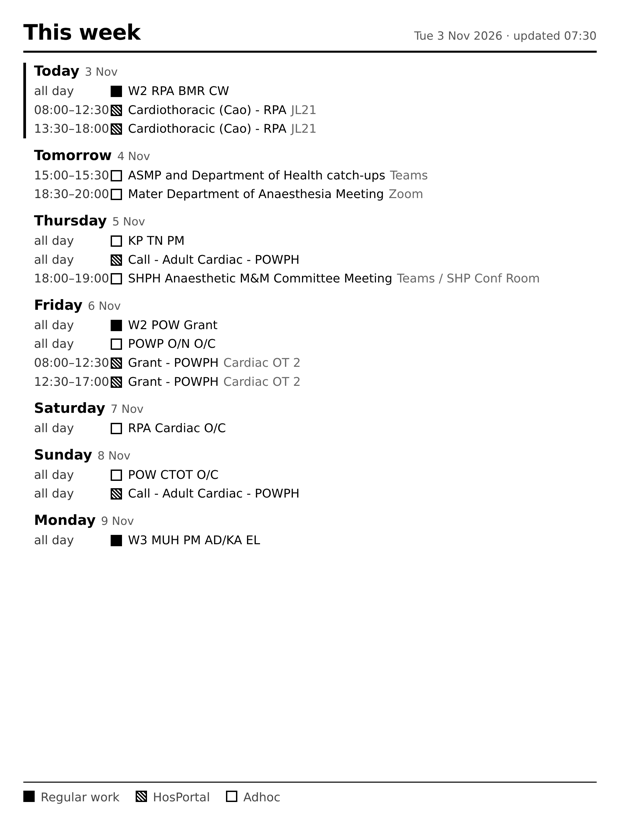
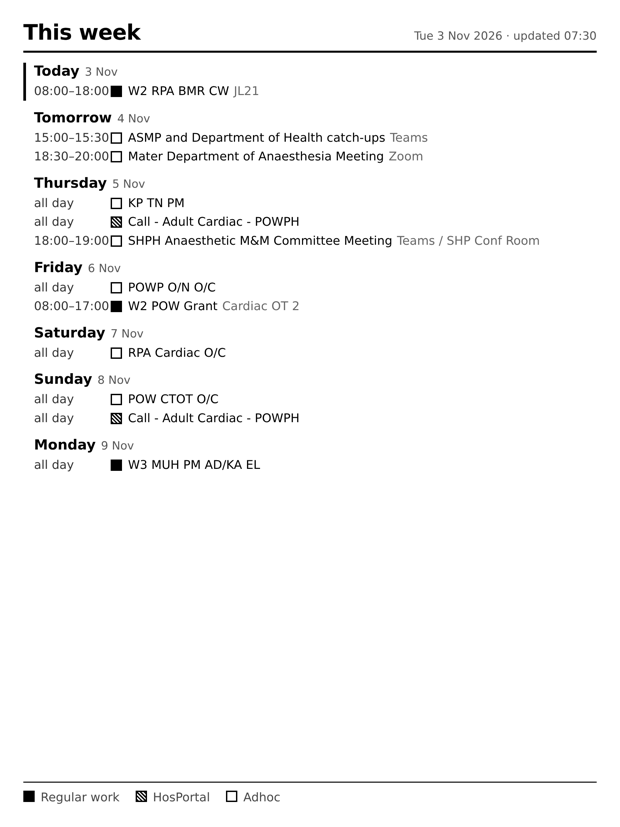
Mockups: HosPortal merge rule, TFC admin page
Claude-Session: https://claude.ai/code/session_011br8fb3fSefWnZdc52BCSJ

Changed region(s): [[0.0306, 0.0907, 0.8581, 0.6651]]

diff --git a/mock/month.html b/mock/month.html
@@ -36,4 +36,19 @@ td.today{border:8px solid #000}
 td.other .n{color:#aaa}
 td .e{white-space:nowrap;overflow:hidden;text-overflow:ellipsis;display:flex;align-items:center}
 td .m{width:20px;height:20px;border:3px solid #000;margin:0 10px 0 0;flex:none}
-</style></head><body><div class="hdr"><h1>November 2026</h1><span class="sub">updated 07:30</span></div><table><tr><th>Mon</th><th>Tue</th><th>Wed</th><th>Thu</th><th>Fri</th><th>Sat</th><th>Sun</th></tr><tr style="height:346px"><td class=" other"><div class="n">26</div></td><td class=" other"><div class="n">27</div></td><td class=" other"><div class="n">28</div></td><td class=" other"><div class="n">29</div></td><td class=" other"><div class="n">30</div><div class="e adhoc"><span class="m"></span>?SIG TOE workshop conference</div></td><td class=" other"><div class="n">31</div><div class="e adhoc"><span class="m"></span>?SIG TOE workshop conference</div><div class="e adhoc"><span class="m"></span>12:15 Flight to Sydney (JQ 409)</div></td><td class=""><div class="n">1</div><div class="e adhoc"><span class="m"></span>Decide on housed</div><div class="e hos"><span class="m"></span>Call - Perfusion - RPA</div></td></tr><tr style="height:346px"><td class=""><div class="n">2</div><div class="e work"><span class="m"></span>W2 PM RPA TAVI</div><div class="e hos"><span class="m"></span>13:30 TAVI - RPA</div></td><td class="today"><div class="n">3</div><div class="e work"><span class="m"></span>W2 RPA BMR CW</div><div class="e hos"><span class="m"></span>08:00 Cardiothoracic (Cao) - RPA</div><div class="e hos"><span class="m"></span>13:30 Cardiothoracic (Cao) - RPA</div></td><td class=""><div class="n">4</div><div class="e adhoc"><span class="m"></span>15:00 ASMP and Department of Health catch-ups</div><div class="e adhoc"><span class="m"></span>18:30 Mater Department of Anaesthesia Meeting</div></td><td class=""><div class="n">5</div><div class="e adhoc"><span class="m"></span>KP TN PM</div><div class="e hos"><span class="m"></span>Call - Adult Cardiac - POWPH</div><div class="e adhoc"><span class="m"></span>18:00 SHPH Anaesthetic M&amp;M Committee Meeting</div></td><td class=""><div class="n">6</div><div class="e work"><span class="m"></span>W2 POW Grant</div><div class="e adhoc"><span class="m"></span>POWP O/N O/C</div><div class="e hos"><span class="m"></span>08:00 Grant - POWPH</div><div class="e hos"><span class="m"></span>12:30 Grant - POWPH</div></td><td class=""><div class="n">7</div><div class="e adhoc"><span class="m"></span>RPA Cardiac O/C</div></td><td class=""><div class="n">8</div><div class="e adhoc"><span class="m"></span>POW CTOT O/C</div><div class="e hos"><span class="m"></span>Call - Adult Cardiac - POWPH</div></td></tr><tr style="height:346px"><td class=""><div class="n">9</div><div class="e work"><span class="m"></span>W3 MUH PM AD/KA EL</div></td><td class=""><div class="n">10</div><div class="e work"><span class="m"></span>W3 StGP GS</div></td><td class=""><div class="n">11</div><div class="e adhoc"><span class="m"></span>KP TN PM</div></td><td class=""><div class="n">12</div></td><td class=""><div class="n">13</div><div class="e work"><span class="m"></span>W3 Norwest AM ZH</div><div class="e work"><span class="m"></span>W3 MUH PM ZH</div></td><td class=""><div class="n">14</div><div class="e adhoc"><span class="m"></span>Kiats/Sumo</div></td><td class=""><div class="n">15</div></td></tr><tr style="height:346px"><td class=""><div class="n">16</div></td><td class=""><div class="n">17</div><div class="e work"><span class="m"></span>W4 RPA CQC JI</div></td><td class=""><div class="n">18</div><div class="e work"><span class="m"></span>W4 SSWP GS</div></td><td class=""><div class="n">19</div><div class="e work"><span class="m"></span>W4 NW ZH PM</div></td><td class=""><div class="n">20</div><div class="e work"><span class="m"></span>W4 StGP GS PM</div></td><td class=""><div class="n">21</div></td><td class=""><div class="n">22</div></td></tr><tr style="height:346px"><td class=""><div class="n">23</div><div class="e work"><span class="m"></span>W1 MUH PM AD/KA</div></td><td class=""><div class="n">24</div><div class="e adhoc"><span class="m"></span>POW Grant</div><div class="e hos"><span class="m"></span>08:00 Grant - POWPH</div><div class="e hos"><span class="m"></span>12:30 Grant - POWPH</div></td><td class=""><div class="n">25</div></td><td class=""><div class="n">26</div><div class="e adhoc"><span class="m"></span>POWP Keogh AM</div><div class="e adhoc"><span class="m"></span>13:00 Keogh Private Theatres</div></td><td class=""><div class="n">27</div><div class="e work"><span class="m"></span>W1 TAVI NG/EL</div></td><td class=""><div class="n">28</div></td><td class=""><div class="n">29</div></td></tr><tr style="height:346px"><td class=""><div class="n">30</div></td><td class=" other"><div class="n">1</div></td><td class=" other"><div class="n">2</div></td><td class=" other"><div class="n">3</div></td><td class=" other"><div class="n">4</div></td><td class=" other"><div class="n">5</div></td><td class=" other"><div class="n">6</div></td></tr></table><div class="legend"><span class="ev work"><span class="m"></span>Regular work</span><span class="ev hos"><span class="m"></span>HosPortal</span><span class="ev adhoc"><span class="m"></span>Adhoc</span></div></body></html>
+
+.tiles{display:grid;grid-template-columns:1fr 1fr 1fr;gap:28px;margin-top:10px}
+.tile{border:5px solid #000;padding:26px 30px;min-height:300px}
+.tile .v{font-size:120px;font-weight:700;line-height:1;letter-spacing:-3px}
+.tile .l{font-size:34px;color:#333;margin-top:14px}
+.tile .s{font-size:28px;color:#666;margin-top:6px}
+.tile.warn{background:repeating-linear-gradient(45deg,#fff 0 10px,#eee 10px 20px)}
+.hero{border:6px solid #000;background:#000;color:#fff;padding:40px 48px;display:flex;justify-content:space-between;align-items:center;margin-bottom:28px}
+.hero .v{font-size:170px;font-weight:700;line-height:1;letter-spacing:-4px}
+.hero .l{font-size:40px;text-align:right;line-height:1.3}
+.chart{border:5px solid #000;padding:26px 30px;margin-top:28px}
+.chart .l{font-size:34px;color:#333;margin-bottom:12px}
+.bars{display:flex;align-items:flex-end;gap:14px;height:260px}
+.bars div{flex:1;background:#000}
+.bars .x{font-size:26px;color:#666;display:flex;justify-content:space-between;margin-top:8px}
+</style></head><body><div class="hdr"><h1>November 2026</h1><span class="sub">updated 07:30</span></div><table><tr><th>Mon</th><th>Tue</th><th>Wed</th><th>Thu</th><th>Fri</th><th>Sat</th><th>Sun</th></tr><tr style="height:346px"><td class=" other"><div class="n">26</div></td><td class=" other"><div class="n">27</div></td><td class=" other"><div class="n">28</div></td><td class=" other"><div class="n">29</div></td><td class=" other"><div class="n">30</div><div class="e adhoc"><span class="m"></span>?SIG TOE workshop conference</div></td><td class=" other"><div class="n">31</div><div class="e adhoc"><span class="m"></span>?SIG TOE workshop conference</div><div class="e adhoc"><span class="m"></span>12:15 Flight to Sydney (JQ 409)</div></td><td class=""><div class="n">1</div><div class="e adhoc"><span class="m"></span>Decide on housed</div><div class="e hos"><span class="m"></span>Call - Perfusion - RPA</div></td></tr><tr style="height:346px"><td class=""><div class="n">2</div><div class="e work"><span class="m"></span>13:30 W2 PM RPA TAVI</div></td><td class="today"><div class="n">3</div><div class="e work"><span class="m"></span>08:00 W2 RPA BMR CW</div></td><td class=""><div class="n">4</div><div class="e adhoc"><span class="m"></span>15:00 ASMP and Department of Health catch-ups</div><div class="e adhoc"><span class="m"></span>18:30 Mater Department of Anaesthesia Meeting</div></td><td class=""><div class="n">5</div><div class="e adhoc"><span class="m"></span>KP TN PM</div><div class="e hos"><span class="m"></span>Call - Adult Cardiac - POWPH</div><div class="e adhoc"><span class="m"></span>18:00 SHPH Anaesthetic M&amp;M Committee Meeting</div></td><td class=""><div class="n">6</div><div class="e adhoc"><span class="m"></span>POWP O/N O/C</div><div class="e work"><span class="m"></span>08:00 W2 POW Grant</div></td><td class=""><div class="n">7</div><div class="e adhoc"><span class="m"></span>RPA Cardiac O/C</div></td><td class=""><div class="n">8</div><div class="e adhoc"><span class="m"></span>POW CTOT O/C</div><div class="e hos"><span class="m"></span>Call - Adult Cardiac - POWPH</div></td></tr><tr style="height:346px"><td class=""><div class="n">9</div><div class="e work"><span class="m"></span>W3 MUH PM AD/KA EL</div></td><td class=""><div class="n">10</div><div class="e work"><span class="m"></span>W3 StGP GS</div></td><td class=""><div class="n">11</div><div class="e adhoc"><span class="m"></span>KP TN PM</div></td><td class=""><div class="n">12</div></td><td class=""><div class="n">13</div><div class="e work"><span class="m"></span>W3 Norwest AM ZH</div><div class="e work"><span class="m"></span>W3 MUH PM ZH</div></td><td class=""><div class="n">14</div><div class="e adhoc"><span class="m"></span>Kiats/Sumo</div></td><td class=""><div class="n">15</div></td></tr><tr style="height:346px"><td class=""><div class="n">16</div></td><td class=""><div class="n">17</div><div class="e work"><span class="m"></span>W4 RPA CQC JI</div></td><td class=""><div class="n">18</div><div class="e work"><span class="m"></span>W4 SSWP GS</div></td><td class=""><div class="n">19</div><div class="e work"><span class="m"></span>W4 NW ZH PM</div></td><td class=""><div class="n">20</div><div class="e work"><span class="m"></span>W4 StGP GS PM</div></td><td class=""><div class="n">21</div></td><td class=""><div class="n">22</div></td></tr><tr style="height:346px"><td class=""><div class="n">23</div><div class="e work"><span class="m"></span>W1 MUH PM AD/KA</div></td><td class=""><div class="n">24</div><div class="e adhoc"><span class="m"></span>POW Grant</div><div class="e hos"><span class="m"></span>08:00 ! Grant - POWPH</div><div class="e hos"><span class="m"></span>12:30 ! Grant - POWPH</div></td><td class=""><div class="n">25</div></td><td class=""><div class="n">26</div><div class="e adhoc"><span class="m"></span>POWP Keogh AM</div><div class="e adhoc"><span class="m"></span>13:00 Keogh Private Theatres</div></td><td class=""><div class="n">27</div><div class="e work"><span class="m"></span>W1 TAVI NG/EL</div></td><td class=""><div class="n">28</div></td><td class=""><div class="n">29</div></td></tr><tr style="height:346px"><td class=""><div class="n">30</div></td><td class=" other"><div class="n">1</div></td><td class=" other"><div class="n">2</div></td><td class=" other"><div class="n">3</div></td><td class=" other"><div class="n">4</div></td><td class=" other"><div class="n">5</div></td><td class=" other"><div class="n">6</div></td></tr></table><div class="legend"><span class="ev work"><span class="m"></span>Regular work</span><span class="ev hos"><span class="m"></span>HosPortal</span><span class="ev adhoc"><span class="m"></span>Adhoc</span></div></body></html>

diff --git a/mock/agenda.html b/mock/agenda.html
@@ -36,4 +36,19 @@ td.today{border:8px solid #000}
 td.other .n{color:#aaa}
 td .e{white-space:nowrap;overflow:hidden;text-overflow:ellipsis;display:flex;align-items:center}
 td .m{width:20px;height:20px;border:3px solid #000;margin:0 10px 0 0;flex:none}
-</style></head><body><div class="hdr"><h1>This week</h1><span class="sub">Tue 3 Nov 2026 · updated 07:30</span></div><div class="day today"><h2>Today<span>3 Nov</span></h2><div class="ev work"><span class="t">all day</span><span class="m"></span><span>W2 RPA BMR CW</span></div><div class="ev hos"><span class="t">08:00–12:30</span><span class="m"></span><span>Cardiothoracic (Cao) - RPA<span class="loc">JL21</span></span></div><div class="ev hos"><span class="t">13:30–18:00</span><span class="m"></span><span>Cardiothoracic (Cao) - RPA<span class="loc">JL21</span></span></div></div><div class="day "><h2>Tomorrow<span>4 Nov</span></h2><div class="ev adhoc"><span class="t">15:00–15:30</span><span class="m"></span><span>ASMP and Department of Health catch-ups<span class="loc">Teams</span></span></div><div class="ev adhoc"><span class="t">18:30–20:00</span><span class="m"></span><span>Mater Department of Anaesthesia Meeting<span class="loc">Zoom</span></span></div></div><div class="day "><h2>Thursday<span>5 Nov</span></h2><div class="ev adhoc"><span class="t">all day</span><span class="m"></span><span>KP TN PM</span></div><div class="ev hos"><span class="t">all day</span><span class="m"></span><span>Call - Adult Cardiac - POWPH</span></div><div class="ev adhoc"><span class="t">18:00–19:00</span><span class="m"></span><span>SHPH Anaesthetic M&amp;M Committee Meeting<span class="loc">Teams / SHP Conf Room</span></span></div></div><div class="day "><h2>Friday<span>6 Nov</span></h2><div class="ev work"><span class="t">all day</span><span class="m"></span><span>W2 POW Grant</span></div><div class="ev adhoc"><span class="t">all day</span><span class="m"></span><span>POWP O/N O/C</span></div><div class="ev hos"><span class="t">08:00–12:30</span><span class="m"></span><span>Grant - POWPH<span class="loc">Cardiac OT 2</span></span></div><div class="ev hos"><span class="t">12:30–17:00</span><span class="m"></span><span>Grant - POWPH<span class="loc">Cardiac OT 2</span></span></div></div><div class="day "><h2>Saturday<span>7 Nov</span></h2><div class="ev adhoc"><span class="t">all day</span><span class="m"></span><span>RPA Cardiac O/C</span></div></div><div class="day "><h2>Sunday<span>8 Nov</span></h2><div class="ev adhoc"><span class="t">all day</span><span class="m"></span><span>POW CTOT O/C</span></div><div class="ev hos"><span class="t">all day</span><span class="m"></span><span>Call - Adult Cardiac - POWPH</span></div></div><div class="day "><h2>Monday<span>9 Nov</span></h2><div class="ev work"><span class="t">all day</span><span class="m"></span><span>W3 MUH PM AD/KA EL</span></div></div><div class="legend"><span class="ev work"><span class="m"></span>Regular work</span><span class="ev hos"><span class="m"></span>HosPortal</span><span class="ev adhoc"><span class="m"></span>Adhoc</span></div></body></html>
+
+.tiles{display:grid;grid-template-columns:1fr 1fr 1fr;gap:28px;margin-top:10px}
+.tile{border:5px solid #000;padding:26px 30px;min-height:300px}
+.tile .v{font-size:120px;font-weight:700;line-height:1;letter-spacing:-3px}
+.tile .l{font-size:34px;color:#333;margin-top:14px}
+.tile .s{font-size:28px;color:#666;margin-top:6px}
+.tile.warn{background:repeating-linear-gradient(45deg,#fff 0 10px,#eee 10px 20px)}
+.hero{border:6px solid #000;background:#000;color:#fff;padding:40px 48px;display:flex;justify-content:space-between;align-items:center;margin-bottom:28px}
+.hero .v{font-size:170px;font-weight:700;line-height:1;letter-spacing:-4px}
+.hero .l{font-size:40px;text-align:right;line-height:1.3}
+.chart{border:5px solid #000;padding:26px 30px;margin-top:28px}
+.chart .l{font-size:34px;color:#333;margin-bottom:12px}
+.bars{display:flex;align-items:flex-end;gap:14px;height:260px}
+.bars div{flex:1;background:#000}
+.bars .x{font-size:26px;color:#666;display:flex;justify-content:space-between;margin-top:8px}
+</style></head><body><div class="hdr"><h1>This week</h1><span class="sub">Tue 3 Nov 2026 · updated 07:30</span></div><div class="day today"><h2>Today<span>3 Nov</span></h2><div class="ev work"><span class="t">08:00–18:00</span><span class="m"></span><span>W2 RPA BMR CW<span class="loc">JL21</span></span></div></div><div class="day "><h2>Tomorrow<span>4 Nov</span></h2><div class="ev adhoc"><span class="t">15:00–15:30</span><span class="m"></span><span>ASMP and Department of Health catch-ups<span class="loc">Teams</span></span></div><div class="ev adhoc"><span class="t">18:30–20:00</span><span class="m"></span><span>Mater Department of Anaesthesia Meeting<span class="loc">Zoom</span></span></div></div><div class="day "><h2>Thursday<span>5 Nov</span></h2><div class="ev adhoc"><span class="t">all day</span><span class="m"></span><span>KP TN PM</span></div><div class="ev hos"><span class="t">all day</span><span class="m"></span><span>Call - Adult Cardiac - POWPH</span></div><div class="ev adhoc"><span class="t">18:00–19:00</span><span class="m"></span><span>SHPH Anaesthetic M&amp;M Committee Meeting<span class="loc">Teams / SHP Conf Room</span></span></div></div><div class="day "><h2>Friday<span>6 Nov</span></h2><div class="ev adhoc"><span class="t">all day</span><span class="m"></span><span>POWP O/N O/C</span></div><div class="ev work"><span class="t">08:00–17:00</span><span class="m"></span><span>W2 POW Grant<span class="loc">Cardiac OT 2</span></span></div></div><div class="day "><h2>Saturday<span>7 Nov</span></h2><div class="ev adhoc"><span class="t">all day</span><span class="m"></span><span>RPA Cardiac O/C</span></div></div><div class="day "><h2>Sunday<span>8 Nov</span></h2><div class="ev adhoc"><span class="t">all day</span><span class="m"></span><span>POW CTOT O/C</span></div><div class="ev hos"><span class="t">all day</span><span class="m"></span><span>Call - Adult Cardiac - POWPH</span></div></div><div class="day "><h2>Monday<span>9 Nov</span></h2><div class="ev work"><span class="t">all day</span><span class="m"></span><span>W3 MUH PM AD/KA EL</span></div></div><div class="legend"><span class="ev work"><span class="m"></span>Regular work</span><span class="ev hos"><span class="m"></span>HosPortal</span><span class="ev adhoc"><span class="m"></span>Adhoc</span></div></body></html>

diff --git a/mock/tfc.html b/mock/tfc.html
@@ -1,0 +1,54 @@
+<!doctype html><html><head><meta charset=utf-8><style>
+*{box-sizing:border-box;margin:0;padding:0}
+body{width:1860px;height:2480px;background:#fff;color:#000;font-family:'DejaVu Sans',Helvetica,Arial,sans-serif;padding:60px 70px;overflow:hidden}
+h1{font-size:64px;font-weight:700;letter-spacing:-1px}
+.hdr{display:flex;justify-content:space-between;align-items:baseline;border-bottom:6px solid #000;padding-bottom:18px;margin-bottom:30px}
+.hdr .sub{font-size:34px;color:#555}
+.day{margin-bottom:26px;padding-left:24px;border-left:8px solid #fff}
+.day.today{border-left-color:#000}
+.day h2{font-size:42px;font-weight:700;margin-bottom:8px}
+.day h2 span{font-weight:400;color:#555;font-size:34px;margin-left:16px}
+.ev{display:flex;font-size:36px;line-height:1.35;padding:4px 0 4px 0}
+.ev .t{width:230px;flex:none;color:#333;font-variant-numeric:tabular-nums}
+.ev .m{width:34px;height:34px;flex:none;margin:8px 18px 0 0;border:4px solid #000}
+.work .m{background:#000}
+.hos .m{background:repeating-linear-gradient(45deg,#000 0 4px,#fff 4px 8px)}
+.adhoc .m{background:#fff}
+.ev .loc{color:#666;margin-left:14px}
+.empty{font-size:34px;color:#888;font-style:italic;padding:4px 0}
+.legend{position:absolute;bottom:60px;left:70px;right:70px;display:flex;gap:48px;font-size:30px;color:#444;border-top:3px solid #000;padding-top:16px}
+.legend .m{margin-top:4px}
+.foot{position:absolute;bottom:60px;right:70px;font-size:28px;color:#888}
+/* daily */
+.grid{position:relative;height:1980px;border-top:3px solid #ccc}
+.hr{position:absolute;left:0;right:0;border-top:3px solid #ddd;font-size:30px;color:#777;padding-left:6px}
+.hr.now{border-top:6px solid #000}
+.blk{position:absolute;left:170px;right:20px;border:5px solid #000;padding:10px 18px;font-size:38px;background:#fff;overflow:hidden}
+.blk.hos{background:repeating-linear-gradient(45deg,#fff 0 10px,#e6e6e6 10px 20px)}
+.blk .loc{font-size:30px;color:#444}
+.allday{font-size:36px;margin-bottom:24px;display:flex;flex-wrap:wrap;gap:14px 40px}
+/* month */
+table{width:100%;height:2080px;border-collapse:collapse;table-layout:fixed}
+th{font-size:34px;padding:10px 0;border-bottom:5px solid #000}
+td{vertical-align:top;border:3px solid #bbb;padding:10px 12px;font-size:28px;line-height:1.3}
+td .n{font-size:40px;font-weight:700;margin-bottom:6px}
+td.today{border:8px solid #000}
+td.other .n{color:#aaa}
+td .e{white-space:nowrap;overflow:hidden;text-overflow:ellipsis;display:flex;align-items:center}
+td .m{width:20px;height:20px;border:3px solid #000;margin:0 10px 0 0;flex:none}
+
+.tiles{display:grid;grid-template-columns:1fr 1fr 1fr;gap:28px;margin-top:10px}
+.tile{border:5px solid #000;padding:26px 30px;min-height:300px}
+.tile .v{font-size:120px;font-weight:700;line-height:1;letter-spacing:-3px}
+.tile .l{font-size:34px;color:#333;margin-top:14px}
+.tile .s{font-size:28px;color:#666;margin-top:6px}
+.tile.warn{background:repeating-linear-gradient(45deg,#fff 0 10px,#eee 10px 20px)}
+.hero{border:6px solid #000;background:#000;color:#fff;padding:40px 48px;display:flex;justify-content:space-between;align-items:center;margin-bottom:28px}
+.hero .v{font-size:170px;font-weight:700;line-height:1;letter-spacing:-4px}
+.hero .l{font-size:40px;text-align:right;line-height:1.3}
+.chart{border:5px solid #000;padding:26px 30px;margin-top:28px}
+.chart .l{font-size:34px;color:#333;margin-bottom:12px}
+.bars{display:flex;align-items:flex-end;gap:14px;height:260px}
+.bars div{flex:1;background:#000}
+.bars .x{font-size:26px;color:#666;display:flex;justify-content:space-between;margin-top:8px}
+</style></head><body><div class="hdr"><h1>TFC</h1><span class="sub">updated 07:30</span></div><div class="hero"><div class="v">5</div><div class="l">days to FANZCA written<br>Thu 5 Nov · 7 candidates</div></div><div class="tiles"><div class="tile "><div class="v">22</div><div class="l">paying</div><div class="s">subscriptions active</div></div><div class="tile "><div class="v">6</div><div class="l">live trials</div><div class="s">30 lapsed, never converted</div></div><div class="tile "><div class="v">1</div><div class="l">signups</div><div class="s">last 7 days</div></div><div class="tile "><div class="v">8<span style="font-size:60px;color:#666"> / 22</span></div><div class="l">active users</div><div class="s">today / 7 days</div></div><div class="tile warn"><div class="v">9</div><div class="l">open SAQ flags</div><div class="s">user-reported errors</div></div><div class="tile "><div class="v">0</div><div class="l">feature requests</div><div class="s">open</div></div></div><div class="chart"><div class="l">Daily active users, last 14 days</div><div class="bars"><div style="height:50.0%"></div><div style="height:78.57142857142857%"></div><div style="height:57.14285714285714%"></div><div style="height:71.42857142857143%"></div><div style="height:64.28571428571429%"></div><div style="height:64.28571428571429%"></div><div style="height:64.28571428571429%"></div><div style="height:57.14285714285714%"></div><div style="height:100.0%"></div><div style="height:92.85714285714286%"></div><div style="height:50.0%"></div><div style="height:42.857142857142854%"></div><div style="height:42.857142857142854%"></div><div style="height:42.857142857142854%"></div></div><div class="x"><span>18 Oct</span><span>today</span></div></div></body></html>

diff --git a/mock/daily.html b/mock/daily.html
@@ -36,4 +36,19 @@ td.today{border:8px solid #000}
 td.other .n{color:#aaa}
 td .e{white-space:nowrap;overflow:hidden;text-overflow:ellipsis;display:flex;align-items:center}
 td .m{width:20px;height:20px;border:3px solid #000;margin:0 10px 0 0;flex:none}
-</style></head><body><div class="hdr"><h1>Tuesday 3 November</h1><span class="sub">updated 10:24</span></div><div class="allday"><span class="ev work"><span class="m"></span>W2 RPA BMR CW</span></div><div class="grid"><div class="hr" style="top:0.0px">07:00</div><div class="hr" style="top:141.42857142857142px">08:00</div><div class="hr" style="top:282.85714285714283px">09:00</div><div class="hr" style="top:424.2857142857142px">10:00</div><div class="hr" style="top:565.7142857142857px">11:00</div><div class="hr" style="top:707.1428571428571px">12:00</div><div class="hr" style="top:848.5714285714284px">13:00</div><div class="hr" style="top:989.9999999999999px">14:00</div><div class="hr" style="top:1131.4285714285713px">15:00</div><div class="hr" style="top:1272.8571428571427px">16:00</div><div class="hr" style="top:1414.2857142857142px">17:00</div><div class="hr" style="top:1555.7142857142856px">18:00</div><div class="hr" style="top:1697.1428571428569px">19:00</div><div class="hr" style="top:1838.5714285714284px">20:00</div><div class="hr now" style="top:480.8571428571429px"></div><div class="blk hos" style="top:143.42857142857142px;height:630.4285714285713px"><b>08:00</b> Cardiothoracic (Cao) - RPA<div class="loc">JL21</div></div><div class="blk hos" style="top:921.2857142857142px;height:630.4285714285713px"><b>13:30</b> Cardiothoracic (Cao) - RPA<div class="loc">JL21</div></div></div><div class="legend"><span class="ev work"><span class="m"></span>Regular work</span><span class="ev hos"><span class="m"></span>HosPortal</span><span class="ev adhoc"><span class="m"></span>Adhoc</span></div></body></html>
+
+.tiles{display:grid;grid-template-columns:1fr 1fr 1fr;gap:28px;margin-top:10px}
+.tile{border:5px solid #000;padding:26px 30px;min-height:300px}
+.tile .v{font-size:120px;font-weight:700;line-height:1;letter-spacing:-3px}
+.tile .l{font-size:34px;color:#333;margin-top:14px}
+.tile .s{font-size:28px;color:#666;margin-top:6px}
+.tile.warn{background:repeating-linear-gradient(45deg,#fff 0 10px,#eee 10px 20px)}
+.hero{border:6px solid #000;background:#000;color:#fff;padding:40px 48px;display:flex;justify-content:space-between;align-items:center;margin-bottom:28px}
+.hero .v{font-size:170px;font-weight:700;line-height:1;letter-spacing:-4px}
+.hero .l{font-size:40px;text-align:right;line-height:1.3}
+.chart{border:5px solid #000;padding:26px 30px;margin-top:28px}
+.chart .l{font-size:34px;color:#333;margin-bottom:12px}
+.bars{display:flex;align-items:flex-end;gap:14px;height:260px}
+.bars div{flex:1;background:#000}
+.bars .x{font-size:26px;color:#666;display:flex;justify-content:space-between;margin-top:8px}
+</style></head><body><div class="hdr"><h1>Tuesday 3 November</h1><span class="sub">updated 10:24</span></div><div class="allday"></div><div class="grid"><div class="hr" style="top:0.0px">07:00</div><div class="hr" style="top:141.42857142857142px">08:00</div><div class="hr" style="top:282.85714285714283px">09:00</div><div class="hr" style="top:424.2857142857142px">10:00</div><div class="hr" style="top:565.7142857142857px">11:00</div><div class="hr" style="top:707.1428571428571px">12:00</div><div class="hr" style="top:848.5714285714284px">13:00</div><div class="hr" style="top:989.9999999999999px">14:00</div><div class="hr" style="top:1131.4285714285713px">15:00</div><div class="hr" style="top:1272.8571428571427px">16:00</div><div class="hr" style="top:1414.2857142857142px">17:00</div><div class="hr" style="top:1555.7142857142856px">18:00</div><div class="hr" style="top:1697.1428571428569px">19:00</div><div class="hr" style="top:1838.5714285714284px">20:00</div><div class="hr now" style="top:480.8571428571429px"></div><div class="blk work" style="top:143.42857142857142px;height:1408.2857142857142px"><b>08:00</b> W2 RPA BMR CW<div class="loc">JL21</div></div></div><div class="legend"><span class="ev work"><span class="m"></span>Regular work</span><span class="ev hos"><span class="m"></span>HosPortal</span><span class="ev adhoc"><span class="m"></span>Adhoc</span></div></body></html>

diff --git a/mock/render.py b/mock/render.py
@@ -55,8 +55,19 @@ def legend(): return ('<div class="legend"><span class="ev work"><span class="m"
                       '<span class="ev hos"><span class="m"></span>HosPortal</span>'
                       '<span class="ev adhoc"><span class="m"></span>Adhoc</span></div>')
 
-def events_on(d):
-    out = [e for e in EV if e["d"] == d or (e.get("end") and e["d"] <= d < dt.date.fromisoformat(e["end"]))]
+def events_on(d, merge=True):
+    out = [dict(e) for e in EV if e["d"] == d or (e.get("end") and e["d"] <= d < dt.date.fromisoformat(e["end"]))]
+    if merge:
+        work = [e for e in out if e["cal"] == "work"]
+        hos_alloc = [e for e in out if e["cal"] == "hos" and not e.get("allday")]
+        if work and hos_alloc:
+            first = min(hos_alloc, key=lambda e: e["start"])
+            for w in work:
+                w["allday"] = False; w["start"] = first["start"]; w["endt"] = max(hos_alloc, key=lambda e: e["endt"])["endt"]
+                w["loc"] = first.get("loc", "")
+            out = [e for e in out if e not in hos_alloc]
+        elif hos_alloc and not work:
+            for e in hos_alloc: e["title"] = "! " + e["title"]
     return sorted(out, key=lambda e: (not e.get("allday"), e.get("start", "")))
 
 def ev_line(e):
@@ -105,11 +116,49 @@ def month():
     return (f'<div class="hdr"><h1>{TODAY.strftime("%B %Y")}</h1><span class="sub">updated 07:30</span></div>'
             f'<table><tr>{head}</tr>{rows}</table>{legend()}')
 
+
+TFC = dict(paying=22, trial_live=6, trial_lapsed=30, active_1d=8, active_7d=22, signups_7d=1,
+           flags=9, requests=0, exam=dt.date(2026, 11, 5), exam_n=7, series=[7,11,8,10,9,9,9,8,14,13,7,6,6,6])
+CSS_TFC = """
+.tiles{display:grid;grid-template-columns:1fr 1fr 1fr;gap:28px;margin-top:10px}
+.tile{border:5px solid #000;padding:26px 30px;min-height:300px}
+.tile .v{font-size:120px;font-weight:700;line-height:1;letter-spacing:-3px}
+.tile .l{font-size:34px;color:#333;margin-top:14px}
+.tile .s{font-size:28px;color:#666;margin-top:6px}
+.tile.warn{background:repeating-linear-gradient(45deg,#fff 0 10px,#eee 10px 20px)}
+.hero{border:6px solid #000;background:#000;color:#fff;padding:40px 48px;display:flex;justify-content:space-between;align-items:center;margin-bottom:28px}
+.hero .v{font-size:170px;font-weight:700;line-height:1;letter-spacing:-4px}
+.hero .l{font-size:40px;text-align:right;line-height:1.3}
+.chart{border:5px solid #000;padding:26px 30px;margin-top:28px}
+.chart .l{font-size:34px;color:#333;margin-bottom:12px}
+.bars{display:flex;align-items:flex-end;gap:14px;height:260px}
+.bars div{flex:1;background:#000}
+.bars .x{font-size:26px;color:#666;display:flex;justify-content:space-between;margin-top:8px}
+"""
+def tfc():
+    days = (TFC["exam"] - TOday()).days
+    mx = max(TFC["series"])
+    bars = "".join(f'<div style="height:{v/mx*100}%"></div>' for v in TFC["series"])
+    T = lambda v, l, s="", cls="": f'<div class="tile {cls}"><div class="v">{v}</div><div class="l">{l}</div><div class="s">{s}</div></div>'
+    return (f'<div class="hdr"><h1>TFC</h1><span class="sub">updated 07:30</span></div>'
+        f'<div class="hero"><div class="v">{days}</div><div class="l">days to FANZCA written<br>{TFC["exam"].strftime("%a %-d %b")} · {TFC["exam_n"]} candidates</div></div>'
+        '<div class="tiles">'
+        + T(TFC["paying"], "paying", "subscriptions active")
+        + T(TFC["trial_live"], "live trials", f'{TFC["trial_lapsed"]} lapsed, never converted')
+        + T(TFC["signups_7d"], "signups", "last 7 days")
+        + T(f'{TFC["active_1d"]}<span style="font-size:60px;color:#666"> / {TFC["active_7d"]}</span>', "active users", "today / 7 days")
+        + T(TFC["flags"], "open SAQ flags", "user-reported errors", "warn" if TFC["flags"] else "")
+        + T(TFC["requests"], "feature requests", "open")
+        + '</div>'
+        f'<div class="chart"><div class="l">Daily active users, last 14 days</div><div class="bars">{bars}</div>'
+        f'<div class="x"><span>{(TOday()-dt.timedelta(13)).strftime("%-d %b")}</span><span>today</span></div></div>')
+def TOday(): return dt.date(2026, 10, 31)
+
 async def main():
     async with async_playwright() as p:
         b = await p.chromium.launch(); pg = await b.new_page(viewport={"width": 1860, "height": 2480})
-        for name, fn in [("agenda", agenda), ("daily", daily), ("month", month)]:
-            doc = f"<!doctype html><html><head><meta charset=utf-8><style>{CSS}</style></head><body>{fn()}</body></html>"
+        for name, fn in [("agenda", agenda), ("daily", daily), ("month", month), ("tfc", tfc)]:
+            doc = f"<!doctype html><html><head><meta charset=utf-8><style>{CSS}{CSS_TFC}</style></head><body>{fn()}</body></html>"
             (HERE / f"{name}.html").write_text(doc)
             await pg.set_content(doc); await pg.screenshot(path=str(HERE / f"{name}.png"))
             im = Image.open(HERE / f"{name}.png").convert("L").quantize(16).convert("L")
